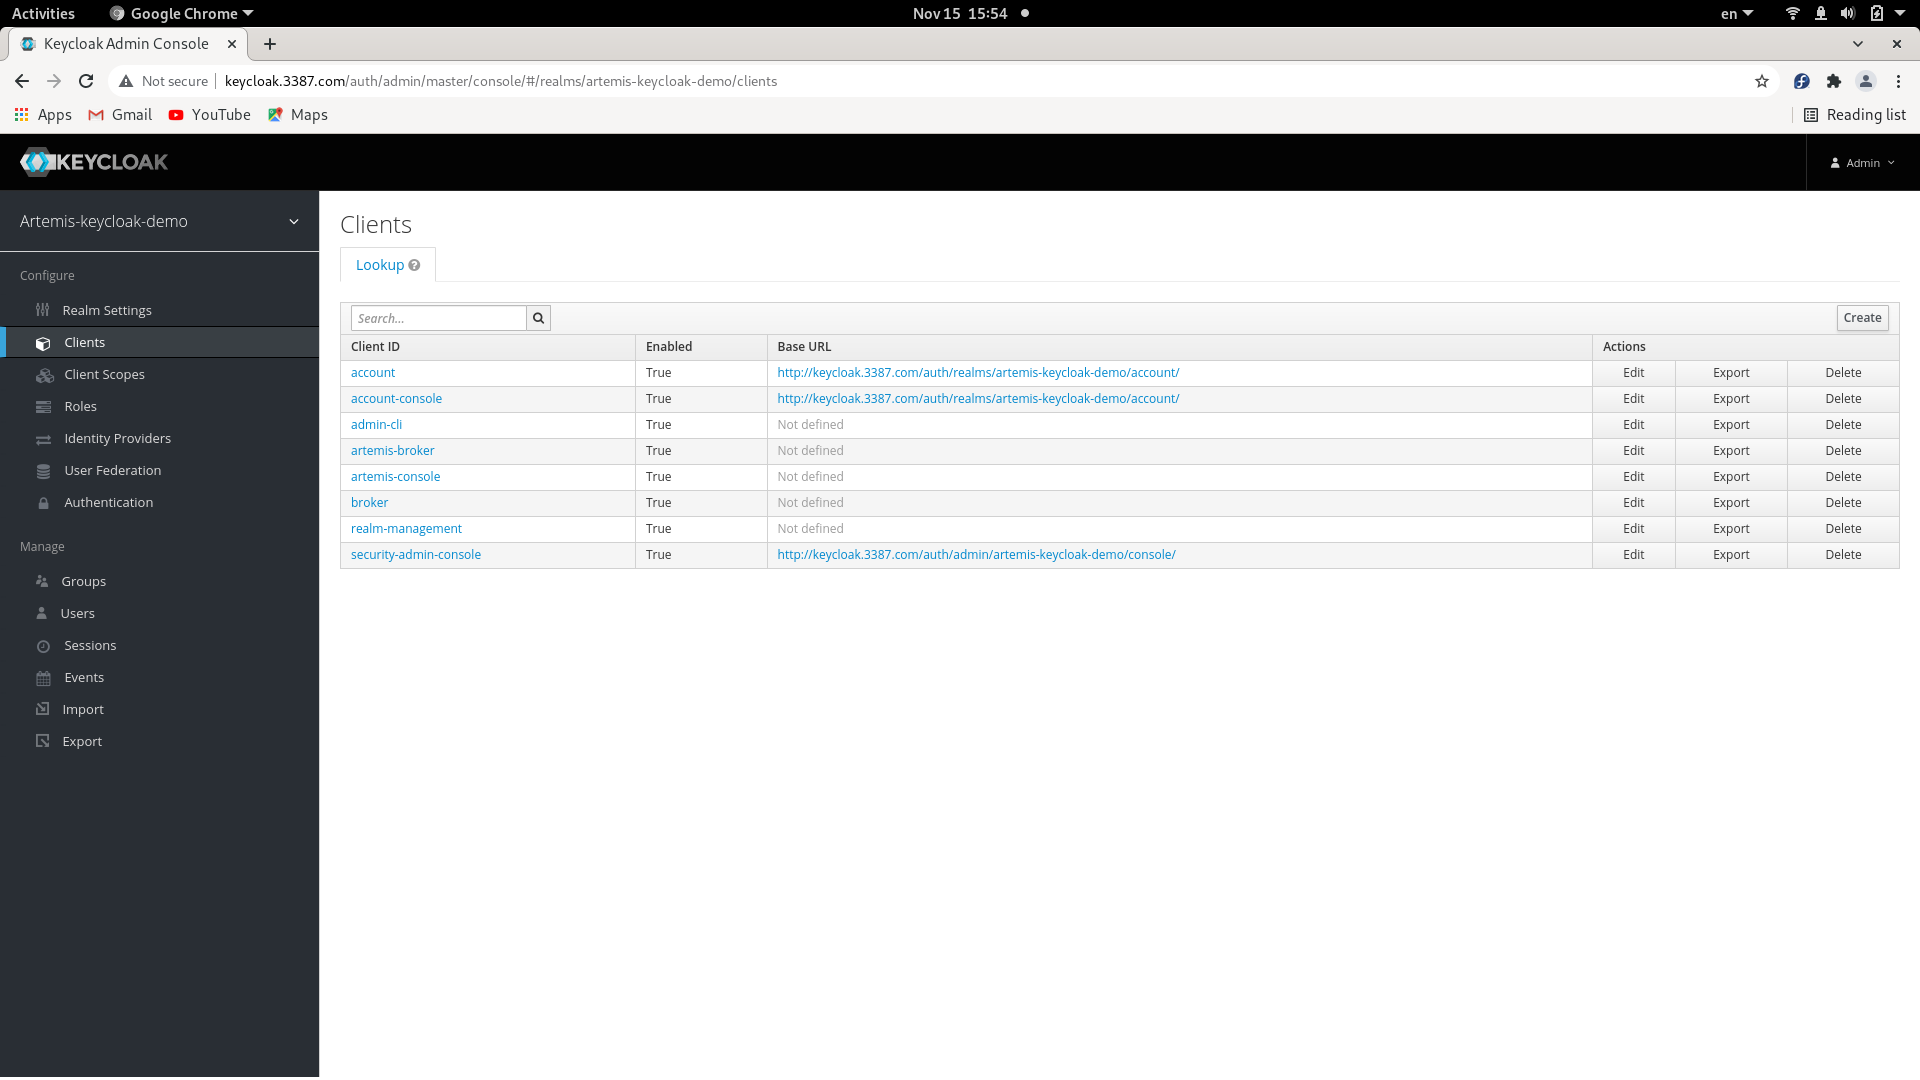
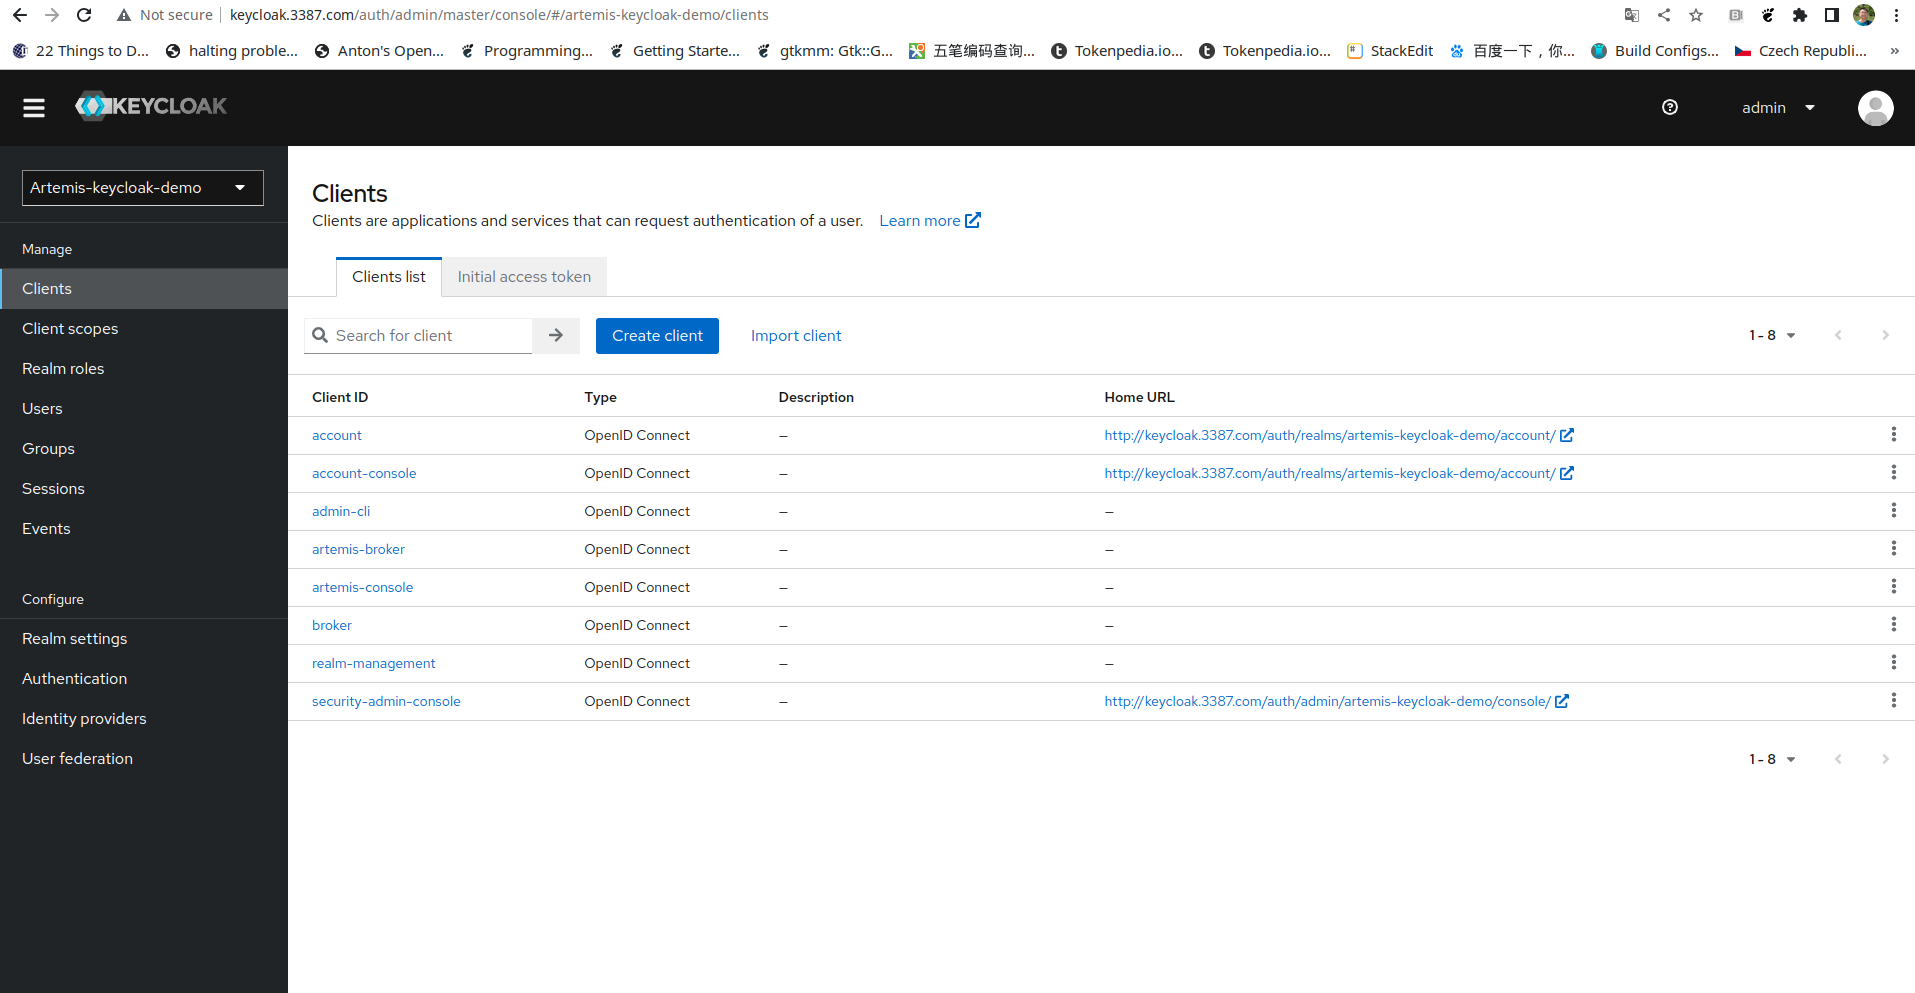
Update keycloak example  - Upgrade keycloak to 19.0.2

diff --git a/operator/keycloak/README.md b/operator/keycloak/README.md
@@ -194,3 +194,26 @@ Log into the broker pod again and receive the message using account **mdoe/passw
     Consumer ActiveMQQueue[Info], thread=0 Consumed: 1 messages
     Consumer ActiveMQQueue[Info], thread=0 Consumer thread finished
     jboss@ex-aao-ss-0 ~]$ exit
+
+## Troubleshooting
+
+* Management Console Not Showing After Logging in
+Check the broker pod's log. If there is something like "No Route to Host keycloak.3387.com"
+it means the host keycloak.3387.com is not resolvable. To fix this you need to configure the
+cluster's DNS service to add the host. With Minikube using core-dns, edit the coredns configmap:
+
+    kubectl edit configmap coredns -n kube-system
+
+and add the host to the configmap like this:
+
+    apiVersion: v1
+    data:
+      Corefile: |
+      ...
+            prometheus :9153
+            hosts {
+               192.168.39.1 host.minikube.internal
+               192.168.39.63 keycloak.3387.com    <==== here add your entries
+               fallthrough
+            }
+       ...
